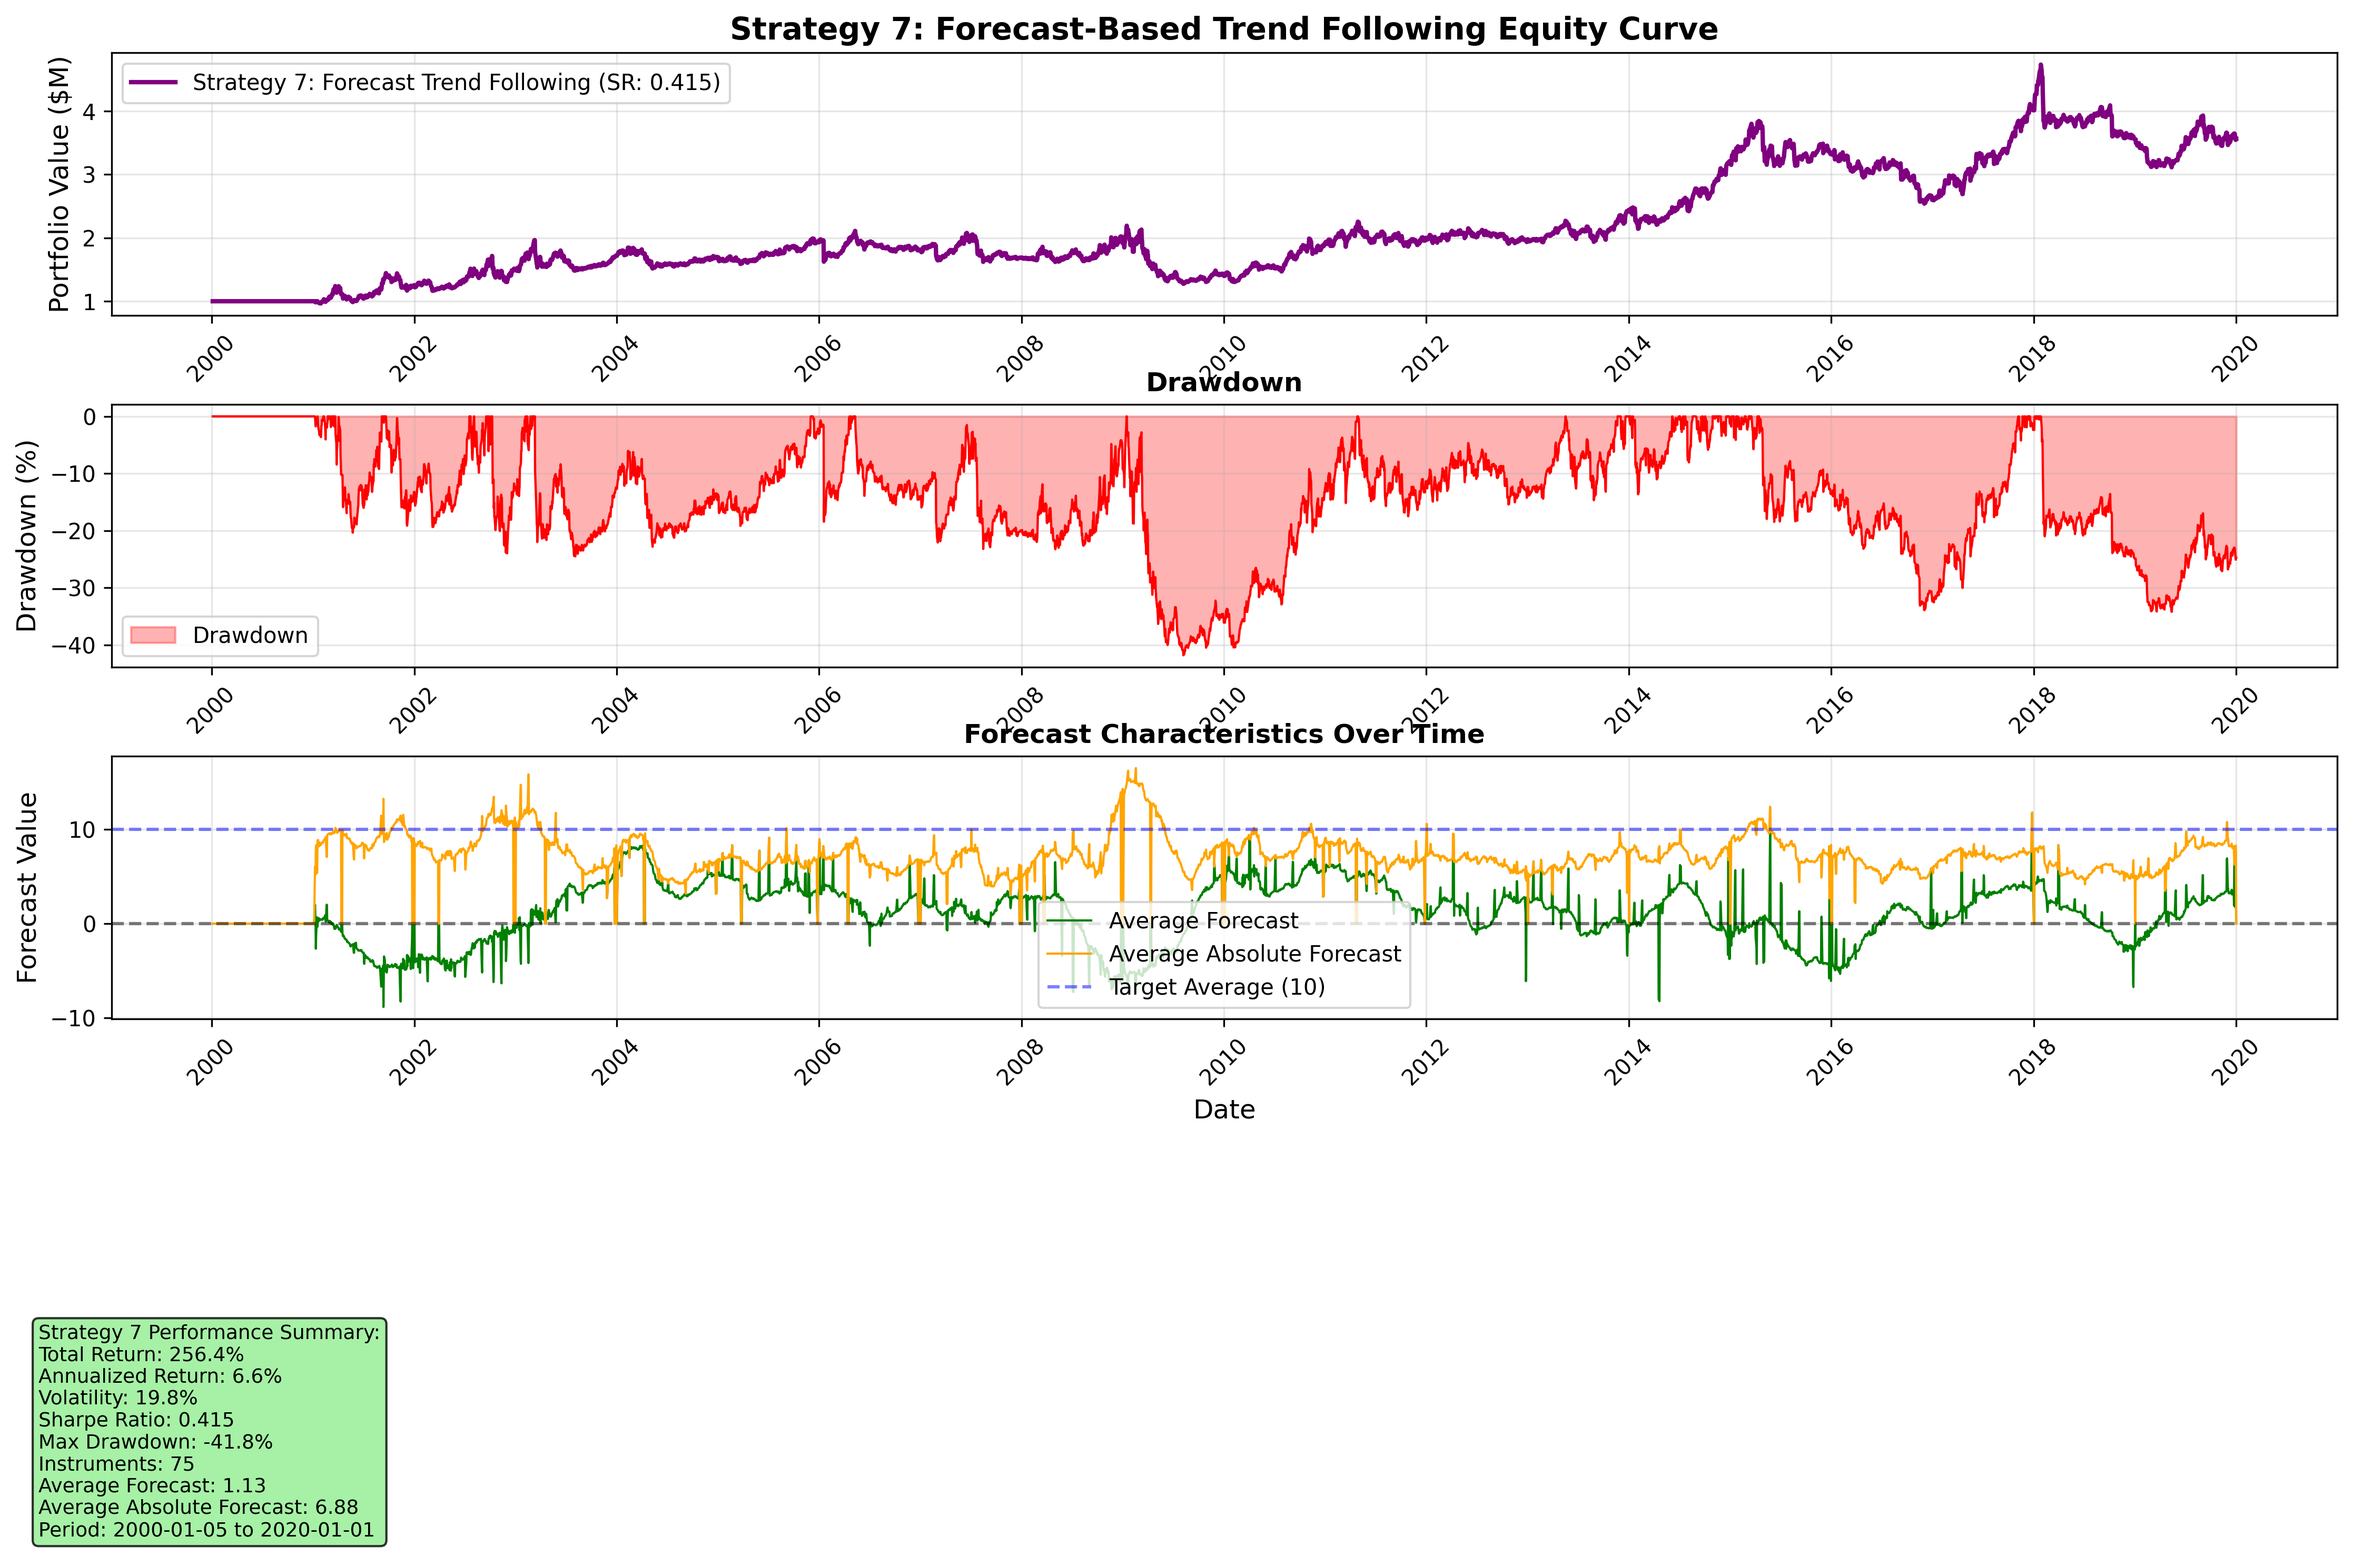
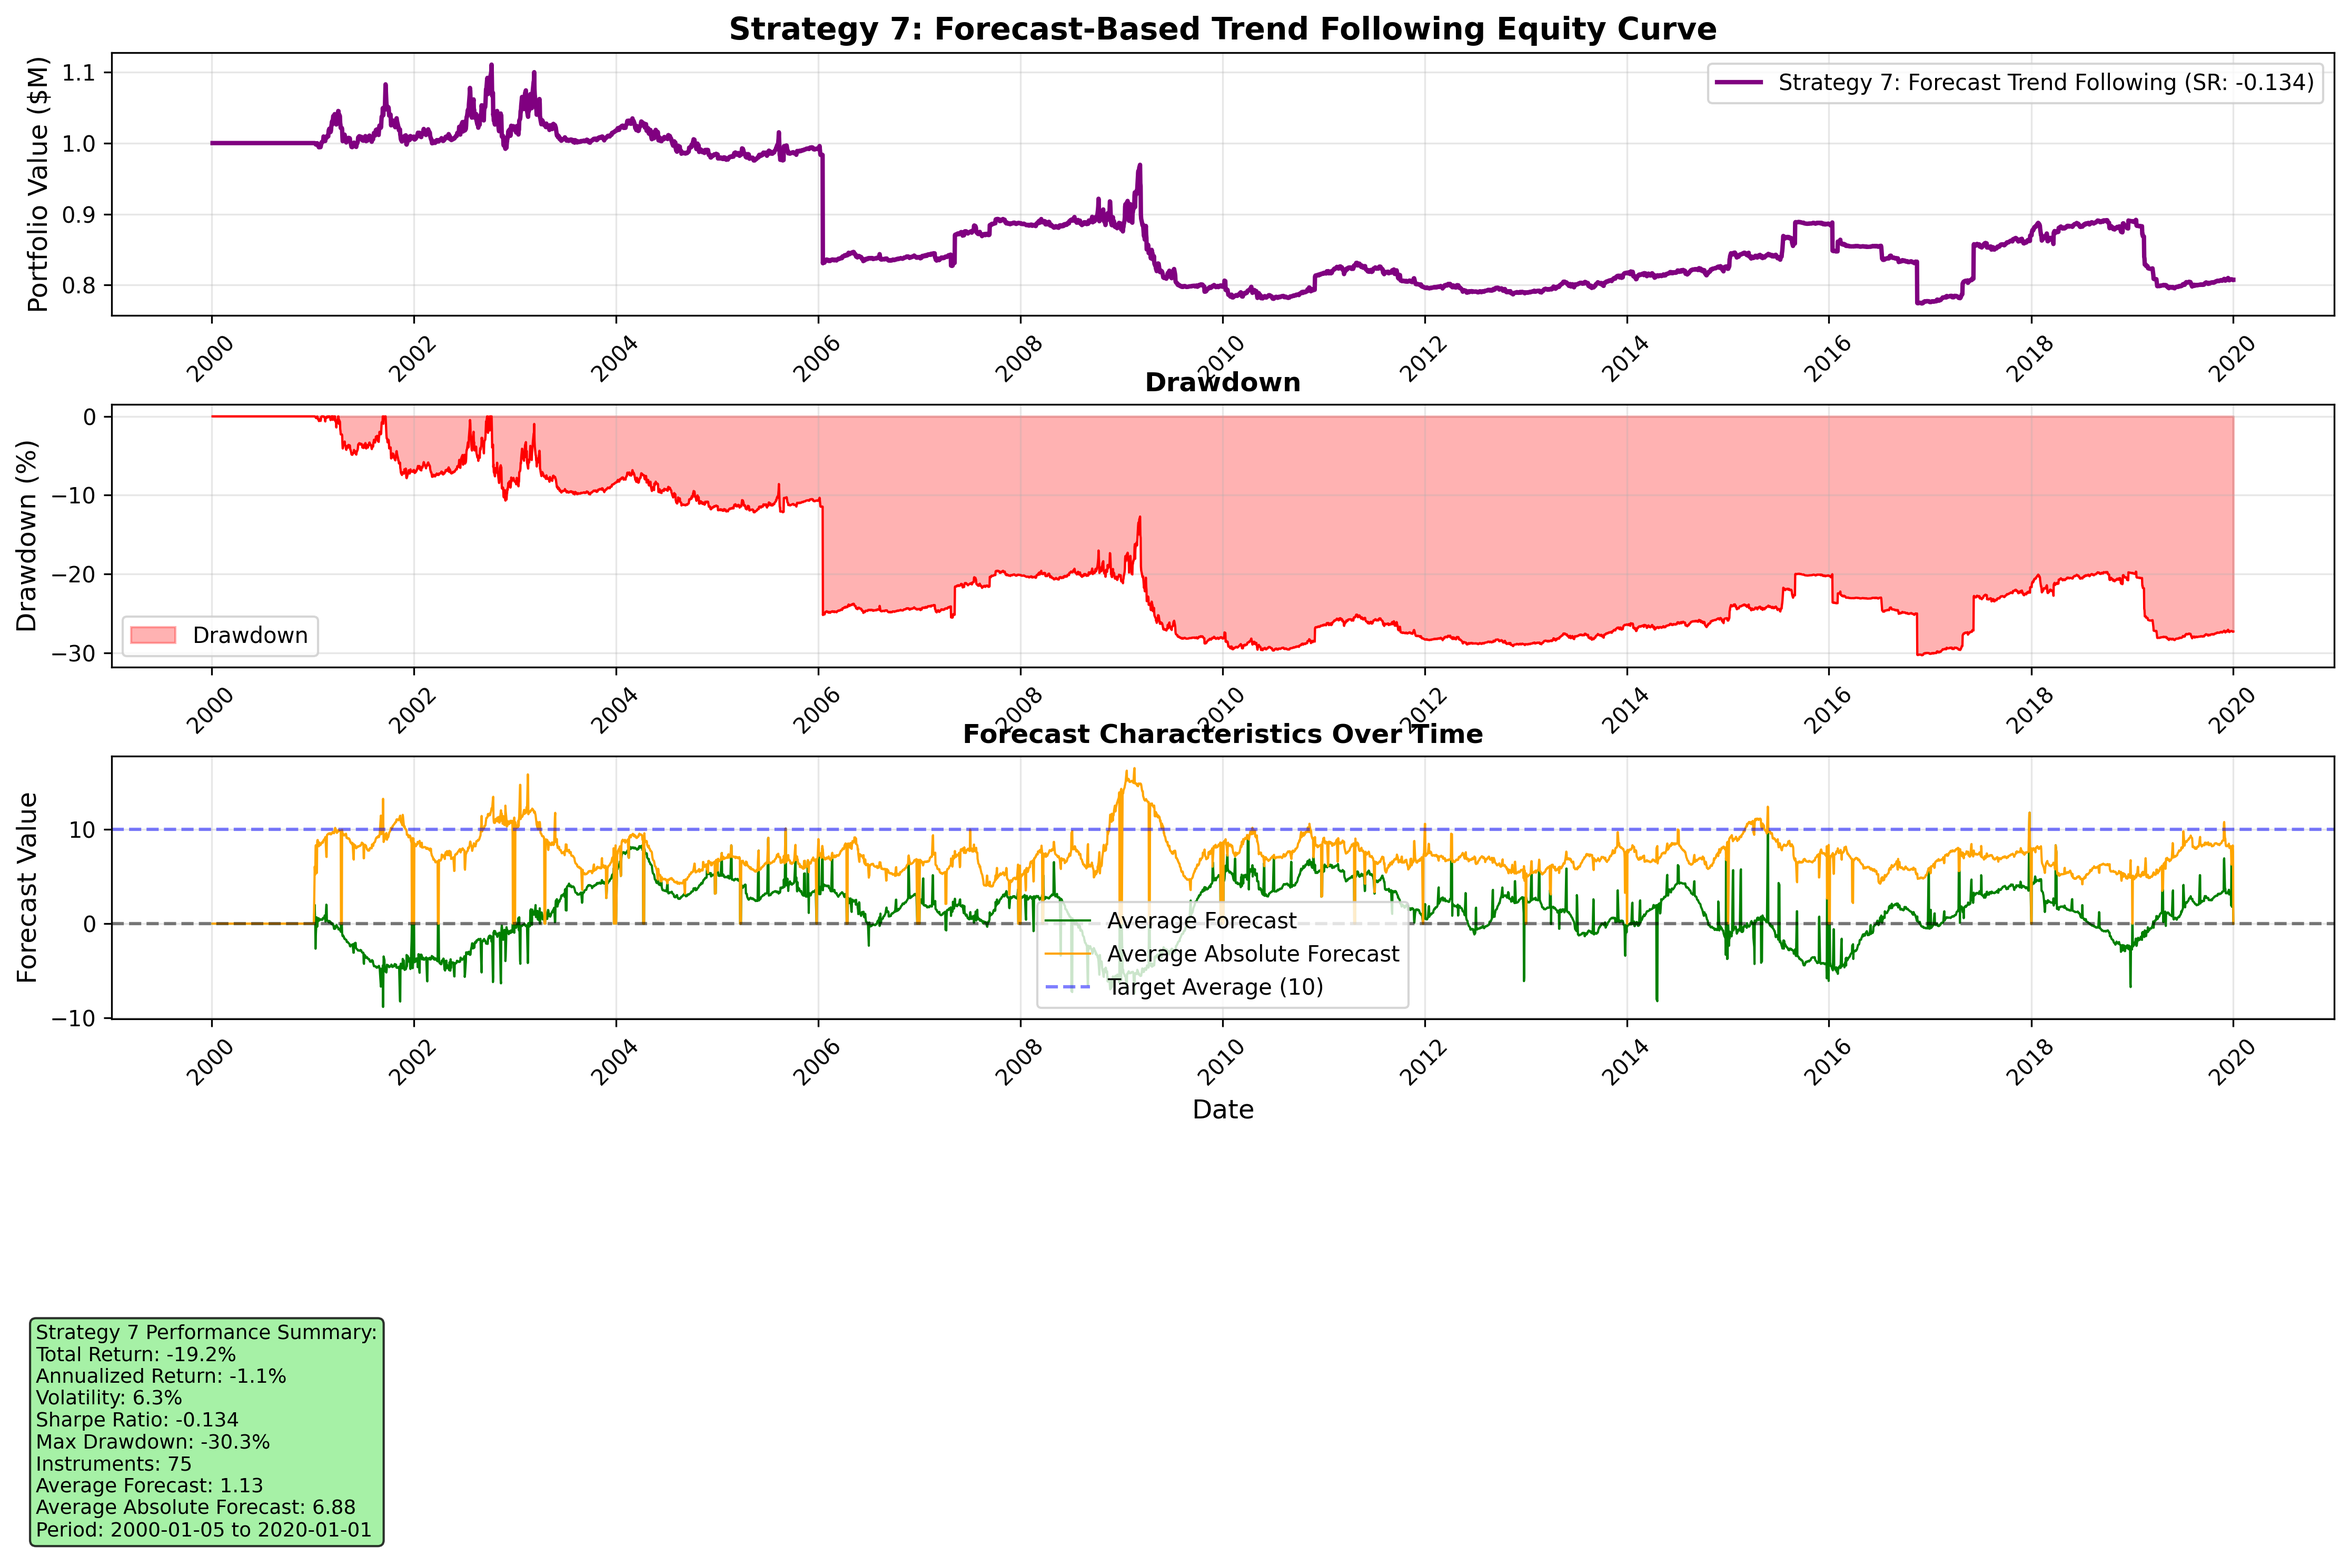
determined no alpha in carver's strategies anymore

diff --git a/rob_port/chapter7.py b/rob_port/chapter7.py
@@ -522,7 +522,7 @@ def backtest_forecast_trend_strategy(data_dir='Data', capital=50000000, risk_tar
                 try:
                     # Sizing based on previous day's close price and current day's vol forecasts
                     price_for_sizing = df_instrument.loc[previous_trading_date, 'Last']
-                    vol_for_sizing = df_instrument.loc[current_date, 'vol_forecast']
+                    vol_for_sizing = df_instrument.loc[current_date, 'vol_forecast'] / np.sqrt(business_days_per_year)
                     
                     # Data for P&L calculation for current_date
                     price_at_start_of_trading = df_instrument.loc[previous_trading_date, 'Last']
@@ -583,15 +583,10 @@ def backtest_forecast_trend_strategy(data_dir='Data', capital=50000000, risk_tar
                             # Calculate trading costs
                             previous_position = previous_positions.get(symbol, 0.0)
                             trade_size = calculate_position_change(previous_position, num_contracts)
-                            trading_cost = 0.0
-                            
-                            if trade_size > 0:  # Only apply costs when there are trades
-                                sr_cost = specs.get('sr_cost', 0.0)
-                                if not pd.isna(sr_cost) and sr_cost > 0:
-                                    trading_cost = calculate_trading_cost_from_sr(
-                                        symbol, trade_size, price_at_start_of_trading, vol_for_sizing,
-                                        instrument_multiplier, sr_cost, capital_at_start_of_day, fx_rate
-                                    )
+                            trading_cost = calculate_trading_cost_from_sr(
+                                symbol, trade_size, price_at_start_of_trading, vol_for_sizing * np.sqrt(business_days_per_year),
+                                instrument_multiplier, specs.get('sr_cost', 0.0), capital_at_start_of_day, fx_rate
+                            )
                             
                             # Net P&L after costs
                             instrument_pnl_today = gross_pnl - trading_cost

diff --git a/rob_port/chapter8.py b/rob_port/chapter8.py
@@ -610,7 +610,7 @@ def backtest_fast_trend_strategy_with_buffering(data_dir='Data', capital=5000000
                 try:
                     # Sizing based on previous day's close price and current day's forecasts
                     price_for_sizing = df_instrument.loc[previous_trading_date, 'Last']
-                    vol_for_sizing = df_instrument.loc[current_date, 'vol_forecast']
+                    vol_for_sizing = df_instrument.loc[current_date, 'vol_forecast'] / np.sqrt(business_days_per_year)
                     forecast_for_sizing = df_instrument.loc[current_date, 'forecast']
                     actual_forecast_used = forecast_for_sizing
                     
@@ -658,7 +658,7 @@ def backtest_fast_trend_strategy_with_buffering(data_dir='Data', capital=5000000
                             sr_cost = specs.get('sr_cost', 0.0)
                             if not pd.isna(sr_cost) and sr_cost > 0:
                                 trading_cost = calculate_trading_cost_from_sr(
-                                    symbol, abs(trade_size), price_at_start_of_trading, vol_for_sizing,
+                                    symbol, abs(trade_size), price_at_start_of_trading, vol_for_sizing * np.sqrt(business_days_per_year),
                                     instrument_multiplier, sr_cost, capital_at_start_of_day, 1.0
                                 )
                         

diff --git a/rob_port/chapter5.py b/rob_port/chapter5.py
@@ -435,7 +435,7 @@ def backtest_trend_following_strategy(data_dir='Data', capital=1000000, risk_tar
                             sr_cost = specs.get('sr_cost', 0.0)
                             if not pd.isna(sr_cost) and sr_cost > 0:
                                 trading_cost = calculate_trading_cost_from_sr(
-                                    symbol, trade_size, price_at_start_of_trading, vol_for_sizing,
+                                    symbol, trade_size, price_at_start_of_trading, vol_for_sizing * np.sqrt(business_days_per_year),
                                     instrument_multiplier, sr_cost, capital_at_start_of_day, fx_rate
                                 )
                         

diff --git a/rob_port/chapter9.py b/rob_port/chapter9.py
@@ -415,7 +415,7 @@ def backtest_multiple_trend_strategy(data_dir='Data', capital=50000000, risk_tar
                 try:
                     # Sizing based on previous day's close price and current day's forecasts
                     price_for_sizing = df_instrument.loc[previous_trading_date, 'Last']
-                    vol_for_sizing = df_instrument.loc[current_date, 'vol_forecast']
+                    vol_for_sizing = df_instrument.loc[current_date, 'vol_forecast'] / np.sqrt(business_days_per_year)
                     forecast_for_sizing = df_instrument.loc[current_date, 'combined_forecast']
                     actual_forecast_used = forecast_for_sizing
                     

diff --git a/rob_port/chapter6.py b/rob_port/chapter6.py
@@ -283,7 +283,7 @@ def backtest_long_short_trend_strategy(data_dir='Data', capital=50000000, risk_t
                 try:
                     # Sizing based on previous day's close price and vol forecasts
                     price_for_sizing = df_instrument.loc[previous_trading_date, 'Last']
-                    vol_for_sizing = df_instrument.loc[current_date, 'vol_forecast']
+                    vol_for_sizing = df_instrument.loc[current_date, 'vol_forecast'] / np.sqrt(business_days_per_year)
                     
                     # Data for P&L calculation for current_date
                     price_at_start_of_trading = df_instrument.loc[previous_trading_date, 'Last']

diff --git a/rob_port/chapter4.py b/rob_port/chapter4.py
@@ -1125,7 +1125,7 @@ def main():
     # ===========================================
     CAPITAL = 1000000               # Starting capital
     START_DATE = '2000-01-01'       # Backtest start date (YYYY-MM-DD) or None for earliest available
-    END_DATE = '2025-12-31'         # Backtest end date (YYYY-MM-DD) or None for latest available
+    END_DATE = '2021-01-31'         # Backtest end date (YYYY-MM-DD) or None for latest available
     RISK_TARGET = 0.2               # 20% annual risk target
     WEIGHT_METHOD = 'handcrafted'   # 'equal', 'vol_inverse', or 'handcrafted'
     
